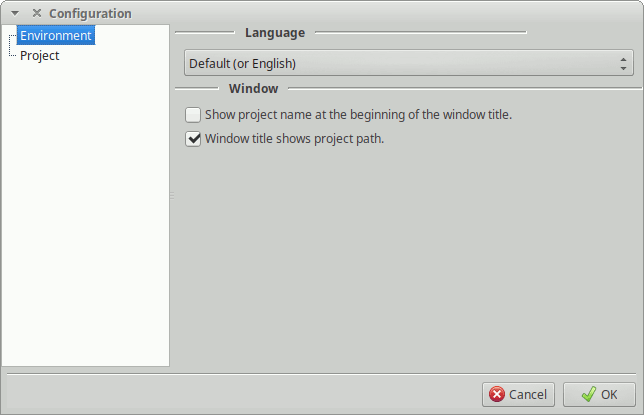
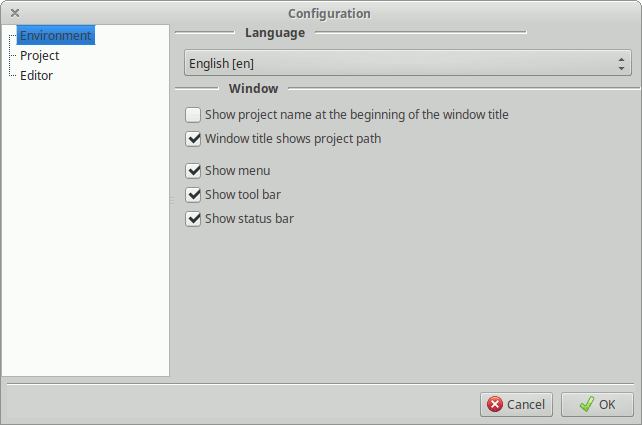
+ Added options and configuration to control menu, tool and status bars   visibility. * User manual updated.

Changed region(s): [[0.2492, 0.0, 1.0, 0.5494], [0.0, 0.8964, 0.9969, 0.9831], [0.0, 0.0, 0.2181, 0.2024]]

diff --git a/docs/usermanual/html/cfg-environment.html b/docs/usermanual/html/cfg-environment.html
@@ -15,7 +15,17 @@
    <h2 id="language">Language</h2>
    <p>You can select the language from the drop down.&nbsp; Best option is <code>Default (or English)</code>.</p>
    <h2 id="window">Window</h2>
-   <p>Here you can select how the main window works.</p>
-   <p>At the moment you can select the information that appears in the title.</p>
+   <p>Here you can select how the main window looks:</p>
+   <ul>
+    <li><strong>Show project name at the beginning of the window title</strong>.&nbsp; If not check, project name will be renderer at the ending of the window title.</li>
+    <li><strong>Window title shows project path</strong>.&nbsp; If not check, it won&#39;t render the project path in the window title.</li>
+   </ul>
+   <p>Next checkbox will select what to show in the main window:</p>
+   <ul>
+    <li><strong>Show menu</strong>.&nbsp; If not checked the menu bar will be hidden.&nbsp; In thatcase the only way to access to the configuration dialog is by pressing the key combination <code>[Ctrl]+[Shift]+[Esc]</code>.</li>
+    <li><strong>Show tool bar</strong>.&nbsp; If not checked the tool bar will be hidden.</li>
+    <li><strong>Show status bar</strong>.&nbsp; If not checked the status bar will be hidden.</li>
+   </ul>
+   <p>Hide all bars to have a clean editor, but right now will not allow to do some actions.&nbsp; In a (I hope) near furure you&#39;ll be able to access to any action even with both menu and tool bars hidden thanks to context menues, key combinations and scripts.</p>
  </body>
 </html>

diff --git a/docs/usermanual/src/cfg-environment.md b/docs/usermanual/src/cfg-environment.md
@@ -11,6 +11,22 @@ English)`.
 
 ## Window ##
 
-Here you can select how the main window works.
+Here you can select how the main window looks:
 
-At the moment you can select the information that appears in the title.
++ **Show project name at the beginning of the window title**.  If not check,
+  project name will be renderer at the ending of the window title.
++ **Window title shows project path**.  If not check, it won't render the
+  project path in the window title.
+
+Next checkbox will select what to show in the main window:
+
++ **Show menu**.  If not checked the menu bar will be hidden.  In thatcase the
+  only way to access to the configuration dialog is by pressing the key
+  combination `[Ctrl]+[Shift]+[Esc]`.
++ **Show tool bar**.  If not checked the tool bar will be hidden.
++ **Show status bar**.  If not checked the status bar will be hidden.
+
+Hide all bars to have a clean editor, but right now will not allow to do some
+actions.  In a (I hope) near furure you'll be able to access to any action even
+with both menu and tool bars hidden thanks to context menues, key combinations
+and scripts.

diff --git a/docs/usermanual/src/cfg-project.md b/docs/usermanual/src/cfg-project.md
@@ -7,11 +7,11 @@
 This section allows to configure what files and directories will be shown in
 the project view.
 
-* **Directory depth.**  This is to select how deep the directory scan will
+* **Directory depth**.  This is to select how deep the directory scan will
   work.  A value between `3` and `5` is good most cases.  Do not put a big
   number or it would take too long to scan the project directory.
-* **Directory order.**  Allows to change how the directories will be ordered
+* **Directory order**.  Allows to change how the directories will be ordered
   in the project tree.
-* **Show hidden files.**  If not checked, hidden files will be ignored.
-* **Show hidden directories.**  If not checked, hidden directories will be
+* **Show hidden files**.  If not checked, hidden files will be ignored.
+* **Show hidden directories**.  If not checked, hidden directories will be
   ignored.
